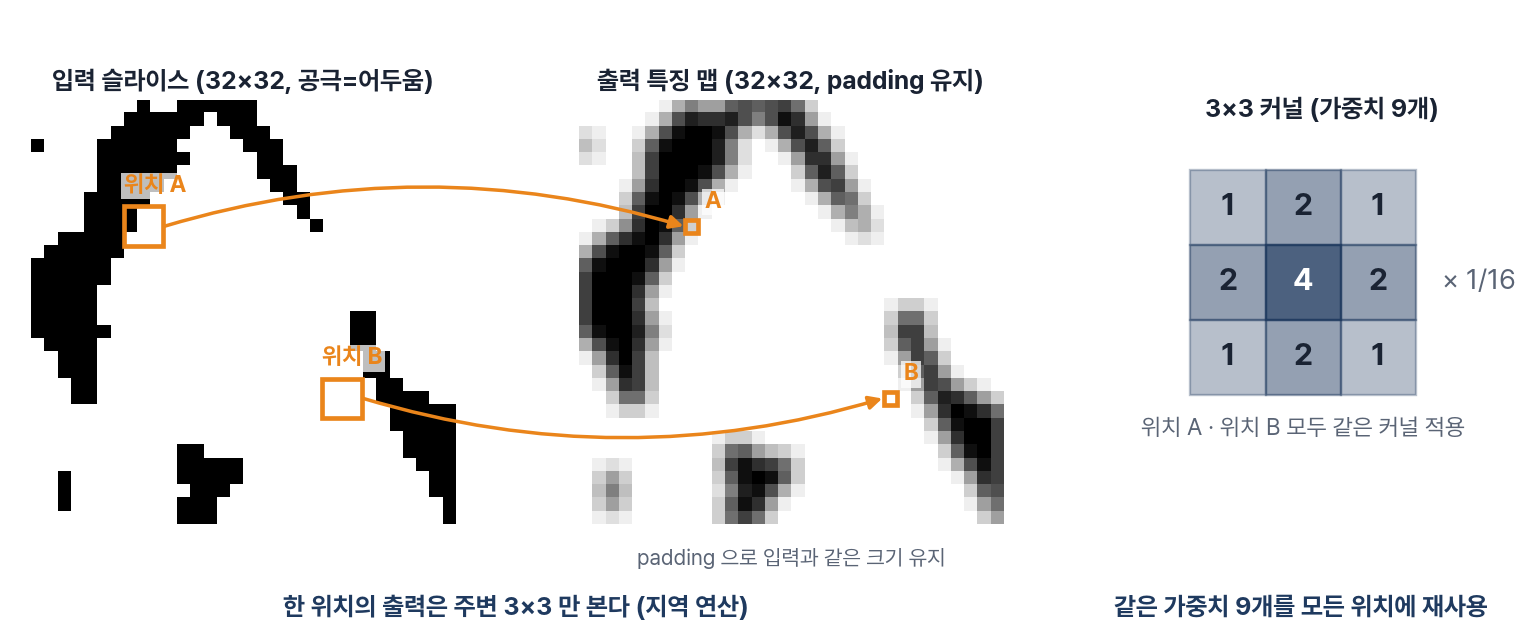
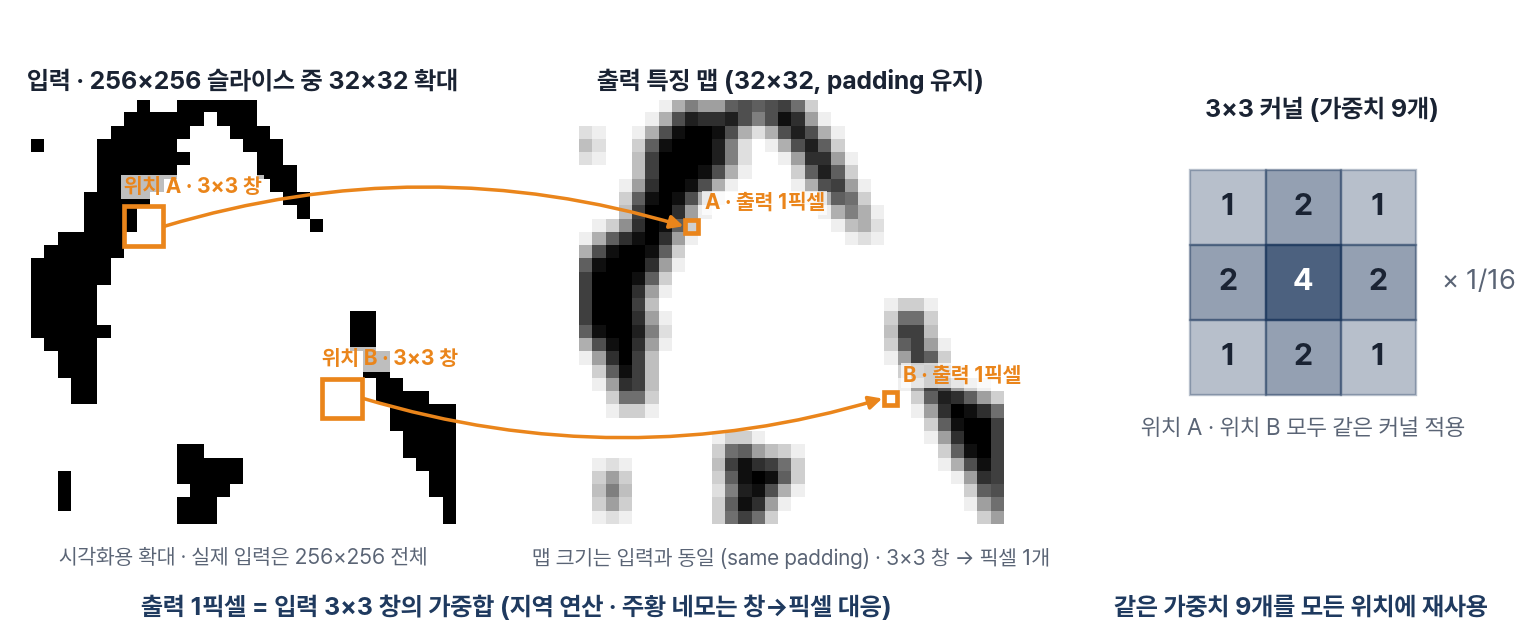
W4 슬라이드7 합성곱 그림 명확화: 창→픽셀 대응·256² 크롭 표기
사용자 질문(주황 네모가 작아지는데 왜 입출력이 같은 32×32인가 / 실제 입력은 256² 아닌가) 대응:
- 그림: 입력 박스 라벨 "위치 A · 3×3 창", 출력 마커 라벨 "A · 출력 1픽셀"로 창→픽셀
  대응임을 명시 (작아지는 건 맵이 아니라 커널 창→출력 픽셀 대응)
- 입력 패널 제목·노트에 "256×256 슬라이스 중 32×32 확대 (시각화용)" 표기
- 출력 패널 노트 "맵 크기는 입력과 동일 (same padding) · 3×3 창 → 픽셀 1개"
- 덱 슬라이드7 본문 노트·발표 대본 동기화

diff --git a/web/W4_deck.html b/web/W4_deck.html
@@ -232,7 +232,7 @@ section.dv{background:var(--navy);color:#fff;font-family:var(--sans);
 </section>
 
 <!-- 07 · 합성곱 복습 -->
-<section class="s" data-label="합성곱 동작" data-speaker-notes="합성곱의 두 원칙이다. 첫째 지역 연산. 한 위치의 출력은 그 주변, 예를 들어 3x3만 본다. 둘째 가중치 공유. 같은 9개 가중치를 이미지 전체에 재사용한다. 그림에서 위치 A와 위치 B는 서로 다른 곳이지만 완전히 같은 커널이 적용된다. 참고로 우리 망은 padding을 써서 출력 크기를 입력과 같게 유지한다. 그래서 32x32 입력이면 출력도 32x32다.">
+<section class="s" data-label="합성곱 동작" data-speaker-notes="합성곱의 두 원칙이다. 첫째 지역 연산. 출력 픽셀 하나는 입력의 주변 3x3 창만 읽어 가중합으로 만들어진다. 그림의 주황 네모가 바로 이 대응이다. 왼쪽 큰 네모는 입력에서 커널이 읽는 3x3 창이고, 오른쪽 작은 네모는 그 창이 만드는 출력 픽셀 하나다. 창이 픽셀로 줄어드는 것이지 맵이 줄어드는 게 아니다. 맵은 padding 덕분에 양쪽 다 32x32로 같다. 둘째 가중치 공유. 위치 A와 B는 다른 곳이지만 완전히 같은 9개 가중치가 적용된다. 참고로 그림은 3x3 창이 보이도록 실제 입력 256x256 중 32x32만 확대한 것이다.">
   <div class="hd">
     <div class="kick"><b>복습</b></div>
     <div class="tt">합성곱: 지역 연산 + 가중치 공유</div>
@@ -240,8 +240,8 @@ section.dv{background:var(--navy);color:#fff;font-family:var(--sans);
   <div class="body mid">
     <div class="figbox" style="max-width:1360px"><img src="assets/figures/W4_conv_locality.png" style="width:100%;max-height:360px;object-fit:contain" alt="3×3 합성곱의 지역 연산과 가중치 공유, padding으로 32×32 유지"></div>
     <div class="row">
-      <div class="note" style="flex:1"><div class="cd" style="font-size:21px"><b>지역 연산.</b> 출력 한 픽셀은 입력의 주변 3×3 만 본다. 멀리 있는 픽셀은 이 단계에서 보이지 않는다.</div></div>
-      <div class="note" style="flex:1"><div class="cd" style="font-size:21px"><b>가중치 공유.</b> 같은 9개 가중치를 전 위치에 재사용한다. 우리 망은 <span class="nv">padding</span>으로 크기를 보존(32×32 → 32×32).</div></div>
+      <div class="note" style="flex:1"><div class="cd" style="font-size:21px"><b>지역 연산.</b> 출력 <b>1픽셀</b> = 입력 <b>3×3 창</b>의 가중합. 주황 네모는 창→픽셀 대응이며, 맵 크기는 동일하다.</div></div>
+      <div class="note" style="flex:1"><div class="cd" style="font-size:21px"><b>가중치 공유.</b> 같은 9개 가중치를 전 위치에 재사용. 그림은 실제 입력 <span class="nv">256×256</span> 중 32×32 확대(시각화용)다.</div></div>
     </div>
 
     <div class="note"><div class="cd" style="font-size:20px"><b>배경.</b> 합성곱 신경망은 1989년 LeCun 의 손글씨 인식(LeNet)에서 시작해, 2012년 AlexNet 이 대규모 이미지 인식에서 성능을 입증하며 딥러닝 부흥을 이끌었다. 지역성·가중치 공유라는 사전지식이 적은 데이터로도 잘 학습되게 한 핵심이다.</div></div>
